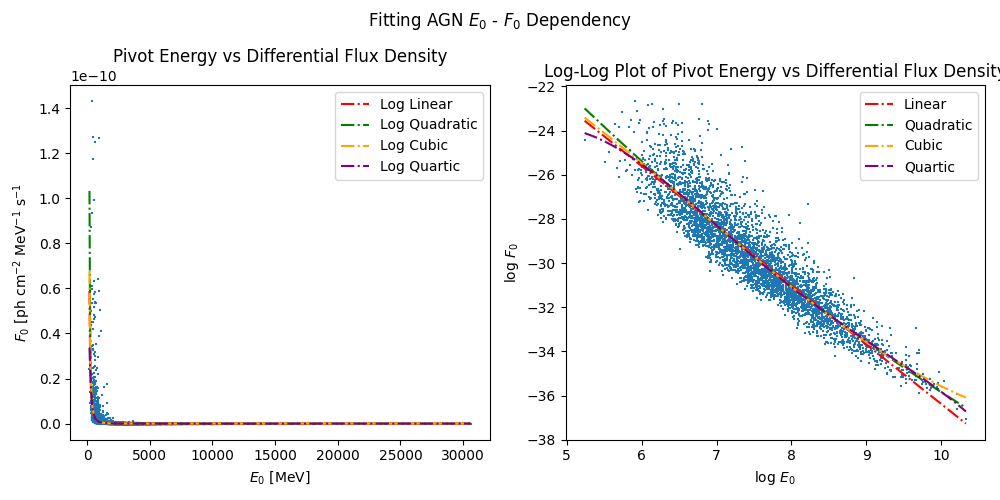
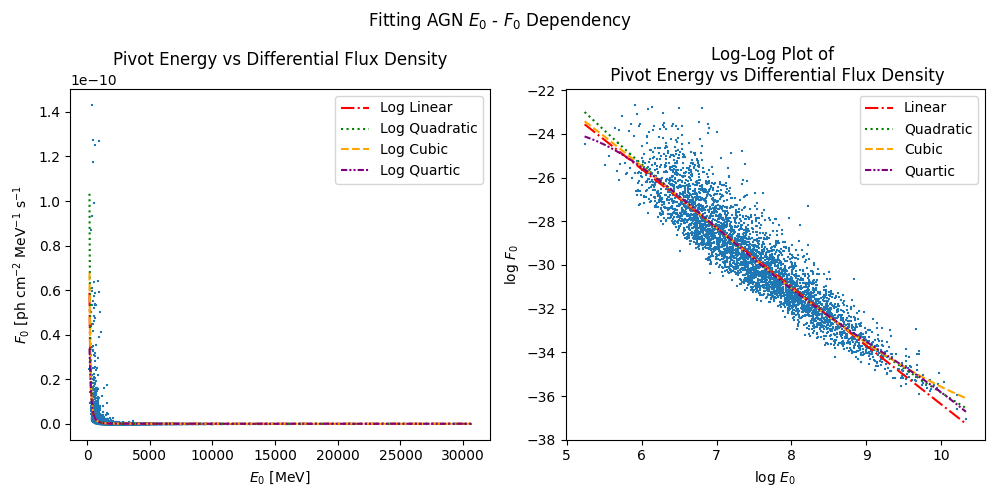
Improved some plots.

diff --git a/code/data_simulation/analysis/visualisation.py b/code/data_simulation/analysis/visualisation.py
@@ -1,3 +1,7 @@
+"""
+Functions for visualising the analysis conducted on 4FGL sources' spectral and spatial parameters.
+"""
+
 from itertools import combinations, product
 import matplotlib.pyplot as plt
 import numpy as np
@@ -25,8 +29,19 @@ units = {"LP_Flux_Density": "[ph cm$^{-2}$ MeV$^{-1}$ s$^{-1}$", "Pivot_Energy":
          "PLEC_ExpfactorS": "", "GLAT": "[rad]"}
 
 
-def plot_correlation_matrices(sources, source_type, directory):
+def plot_correlation_matrices(sources, source_type: str, directory: str):
+    """Plot all possible parameter combinations' correlations - both Pearson (for linear) and Kendall (for non-linear)
+    coefficients should be shown in the same plot.
 
+    Parameters
+    ----------
+    sources
+        Columns of spectral and spatial parameters in frame
+    source_type : str
+        Type of gamma-ray source being analysed (used in figure title)
+    directory : str
+        File in which to store final plot
+    """
     # CREATE PLOT
 
     plt.rcParams["figure.figsize"] = (27, 11)
@@ -58,6 +73,24 @@ def plot_correlation_matrices(sources, source_type, directory):
 
 
 def plot_fitting_correlated_variable_dependency(var1, var2, source_type: str, directory: str, logarithmic_fit=True):
+    """Function attempts to identify any correlations between any spectral and spatial parameter combinations - these
+    correlations may take the form of polynomials relating the logarithm of both parameters (this polynomial may be
+    linear, quadratic, cubic, quartic). It also attempts to identify any directly logarithmic relationships.
+
+    Parameters
+    ----------
+    var1
+        The values of a given spectral parameter for each of the sources
+    var2
+        The values of another given spectral parameter for each of the sources
+    source_type : str
+        Type of gamma-ray source being analysed (used in figure title)
+    directory : str
+        File in which to store final plot
+    logarithmic_fit : bool, optional
+        Indicates whether to attempt a logarithmic fit to the parameters
+
+    """
     # N.B. when calculating the least squares fit - in case variables need to be normally distributed, we know that log
     # of E_0 and log of F_0 are both normally distributed (log-normal distribution)
 
@@ -93,20 +126,23 @@ def plot_fitting_correlated_variable_dependency(var1, var2, source_type: str, di
 
     colours = ["red", "green", "orange", "purple"]
 
+    linestyles = ['-.', ':', '--', (0, (3, 1, 1, 1, 1, 1))]
+
     residuals = []
 
     for degree in range(1, 5):
-
         idx = degree - 1
 
         polynomial = np.polynomial.Polynomial.fit(log_var1, log_var2, deg=degree)
 
         ax[0].plot(x_values, np.exp(polynomial(log_x_values)), color=colours[idx], label="Log {}".format(labels[idx]),
-                   linestyle='-.')
-        ax[1].plot(log_x_values, polynomial(log_x_values), color=colours[idx], label=labels[idx], linestyle="-.")
+                   linestyle=linestyles[degree - 1])
+        ax[1].plot(log_x_values, polynomial(log_x_values), color=colours[idx], label=labels[idx],
+                   linestyle=linestyles[degree - 1])
 
         polynomial_log = polynomial(log_var1)
 
+        # Prints the coefficient values of the best fitting polynomial to the parameters
         print(["{} : {}".format(chr((degree - x) + 97), polynomial.convert().coef[x]) for x in range(degree, -1, -1)])
         print("RMSE of {} Fit: {}".format(labels[idx], root_mean_squared_error(log_var2, polynomial_log)))
 
@@ -124,9 +160,8 @@ def plot_fitting_correlated_variable_dependency(var1, var2, source_type: str, di
     # Logarithmic Fit
 
     if logarithmic_fit is True:
-
-        # This paper states that the spectral index depends linearly on ln E - https://journals-aps-org.ezphost.dur.ac.uk/
-        # prd/abstract/10.1103/k5dp-5str
+        # This paper states that the spectral index depends linearly on ln E
+        # - https://journals-aps-org.ezphost.dur.ac.uk/prd/abstract/10.1103/k5dp-5str
 
         polynomial = np.polynomial.Polynomial.fit(log_var1, var2, deg=1)
         ax[0].plot(x_values, polynomial(log_x_values), color="black", label="Logarithmic")
@@ -154,15 +189,26 @@ def plot_fitting_correlated_variable_dependency(var1, var2, source_type: str, di
 
     ax[0].set_xlabel("{} {}".format(mathematical_notation[var1.name], units[var1.name]))
     ax[0].set_ylabel("{} {}".format(mathematical_notation[var2.name], units[var2.name]))
-    ax[0].set_title("{} vs {}".format(axis_labels[var1.name], axis_labels[var2.name]))
+
+    title_0 = "{} vs {}".format(axis_labels[var1.name], axis_labels[var2.name])
+
+    ax[0].set_title(title_0)
     ax[0].legend()
+
+    if len(axis_labels[var1.name]) + len(axis_labels[var2.name]) > 20:
+        new_line = '\n'
+    else:
+        new_line = ''
+
+    title_1 = "Log-Log Plot of {} {} vs {}".format(new_line, axis_labels[var1.name], axis_labels[var2.name])
 
     ax[1].set_xlabel("log {}".format(mathematical_notation[var1.name]))
     ax[1].set_ylabel("log {}".format(mathematical_notation[var2.name]))
-    ax[1].set_title("Log-Log Plot of {} vs {}".format(axis_labels[var1.name], axis_labels[var2.name]))
+    ax[1].set_title(title_1)
     ax[1].legend()
 
-    fig.suptitle("Fitting {} {} - {} Dependency".format(source_type, mathematical_notation[var1.name], mathematical_notation[var2.name]))
+    fig.suptitle("Fitting {} {} - {} Dependency".format(source_type, mathematical_notation[var1.name],
+                                                        mathematical_notation[var2.name]))
 
     fig.tight_layout()
 
@@ -179,7 +225,6 @@ def plot_fitting_correlated_variable_dependency(var1, var2, source_type: str, di
     fig2, ax2 = plt.subplots(1, len(labels))
 
     for a in range(len(residuals)):
-
         residuals_std = np.std(residuals[a], ddof=1)
 
         normalised_residuals = residuals[a] / residuals_std
@@ -198,15 +243,15 @@ def plot_fitting_correlated_variable_dependency(var1, var2, source_type: str, di
 
     fig2.tight_layout()
 
-    fig2.savefig(directory + "/fitted_{}_{}_{}_relationship_residuals.png".
-                format(source_type.lower(), axis_labels[var1.name].lower().replace(" ", "_"),
-                       axis_labels[var2.name].lower().replace(" ", "_")))
+    (fig2.savefig
+     (directory + "/fitted_{}_{}_{}_relationship_residuals.png"
+      .format(source_type.lower(), axis_labels[var1.name].lower().replace(" ", "_"),
+              axis_labels[var2.name].lower().replace(" ", "_"))))
 
     plt.close()
 
 
 def plot_parameter_distributions(sources, source_type: str, directory: str):
-
     num_parameters = sources.shape[1]
 
     # CREATE PLOTS
@@ -237,8 +282,6 @@ def plot_parameter_distributions(sources, source_type: str, directory: str):
         # Calculate distribution parameters of data
         mean, sigma = np.mean(values), np.std(values, ddof=1)
         scale, s = log_normal_parameter(values)
-        # logistic_scale = sigma * (np.sqrt(3) / np.pi)
-        # log_logistic_scale = np.std(np.log(values), ddof=1) * (np.sqrt(3) / np.pi)
 
         # Plot Gaussian using mean and standard deviation of data
         x_values = np.linspace(np.min(values), np.max(values), 1000)
@@ -248,14 +291,6 @@ def plot_parameter_distributions(sources, source_type: str, directory: str):
         # any of the other AGN parameters)
         subplot.plot(x_values, lognorm.pdf(x_values, s=s, scale=scale), color='red', label='Log-Normal',
                      linestyle='--')
-
-        # Plot Logistic distribution using mean and standard deviation of data (I noted similarity of shapes)
-        # subplot.plot(x_values, logistic.pdf(x_values, loc=mean, scale=logistic_scale), color='purple', label='Logistic',
-        #              linestyle=":")
-
-        # Plot log-logistic distribution using mean and standard deviation of data (I noted similarity of shapes)
-        # subplot.plot(x_values, fisk.pdf(x_values, scale=np.exp(np.mean(np.log(x_values))), c=1 / log_logistic_scale),
-        #              color='green', label='Log-Logistic')
 
         cauchy_params = cauchy.fit(values, floc=0)
 
@@ -286,7 +321,6 @@ def plot_parameter_distributions(sources, source_type: str, directory: str):
 
 
 def plot_parameter_relationships(sources, source_type: str, directory: str):
-
     # Find all possible combinations of parameters
     variable_combinations = list(combinations(list(sources.columns), 2))
 
@@ -342,7 +376,6 @@ def plot_parameter_relationships(sources, source_type: str, directory: str):
 
         # Subplot formatting
         for a in [ax, ax2]:
-
             a[row, col].set_title(mathematical_notation[var1] + ' against ' + mathematical_notation[var2], fontsize=12)
 
             a[row, col].set_xlabel("{} {}".format(mathematical_notation[var2], units[var2]))
@@ -362,7 +395,6 @@ def plot_parameter_relationships(sources, source_type: str, directory: str):
     fig2.savefig(directory + "/{}_logarithmic_parameter_relationships.png".format(source_type.lower()))
 
     plt.close()
-
 
 # REFERENCES
 
